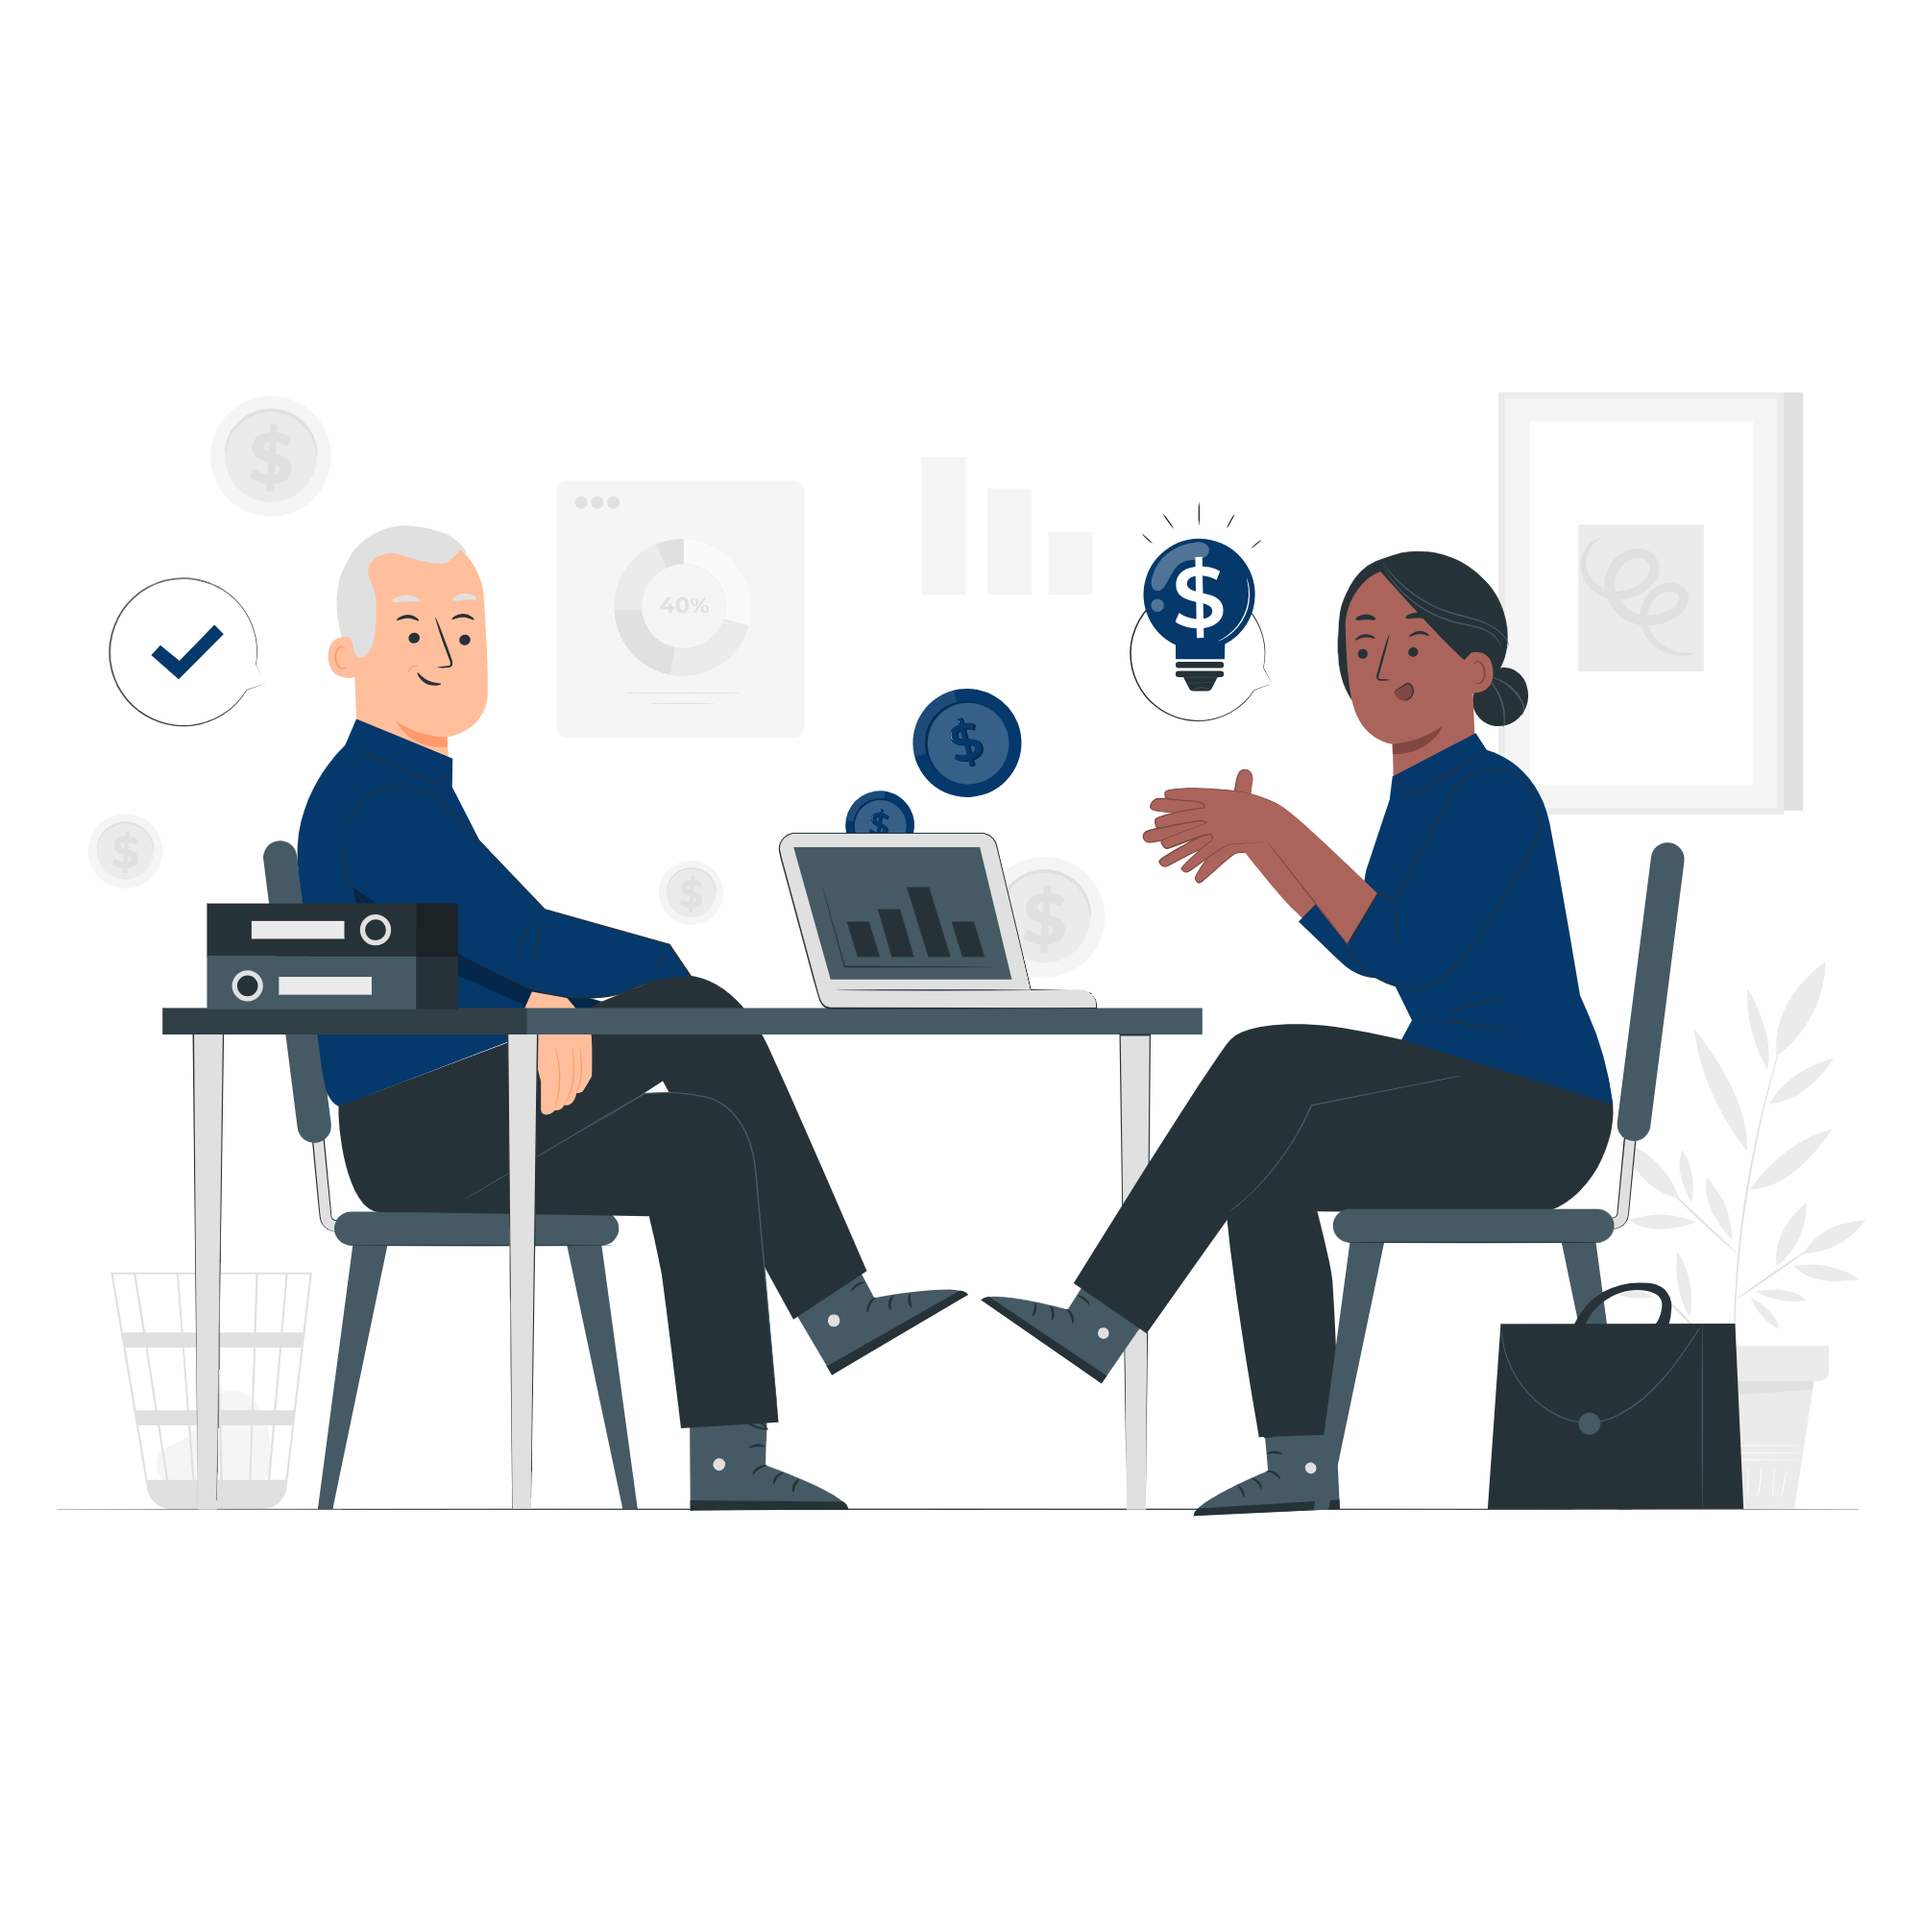
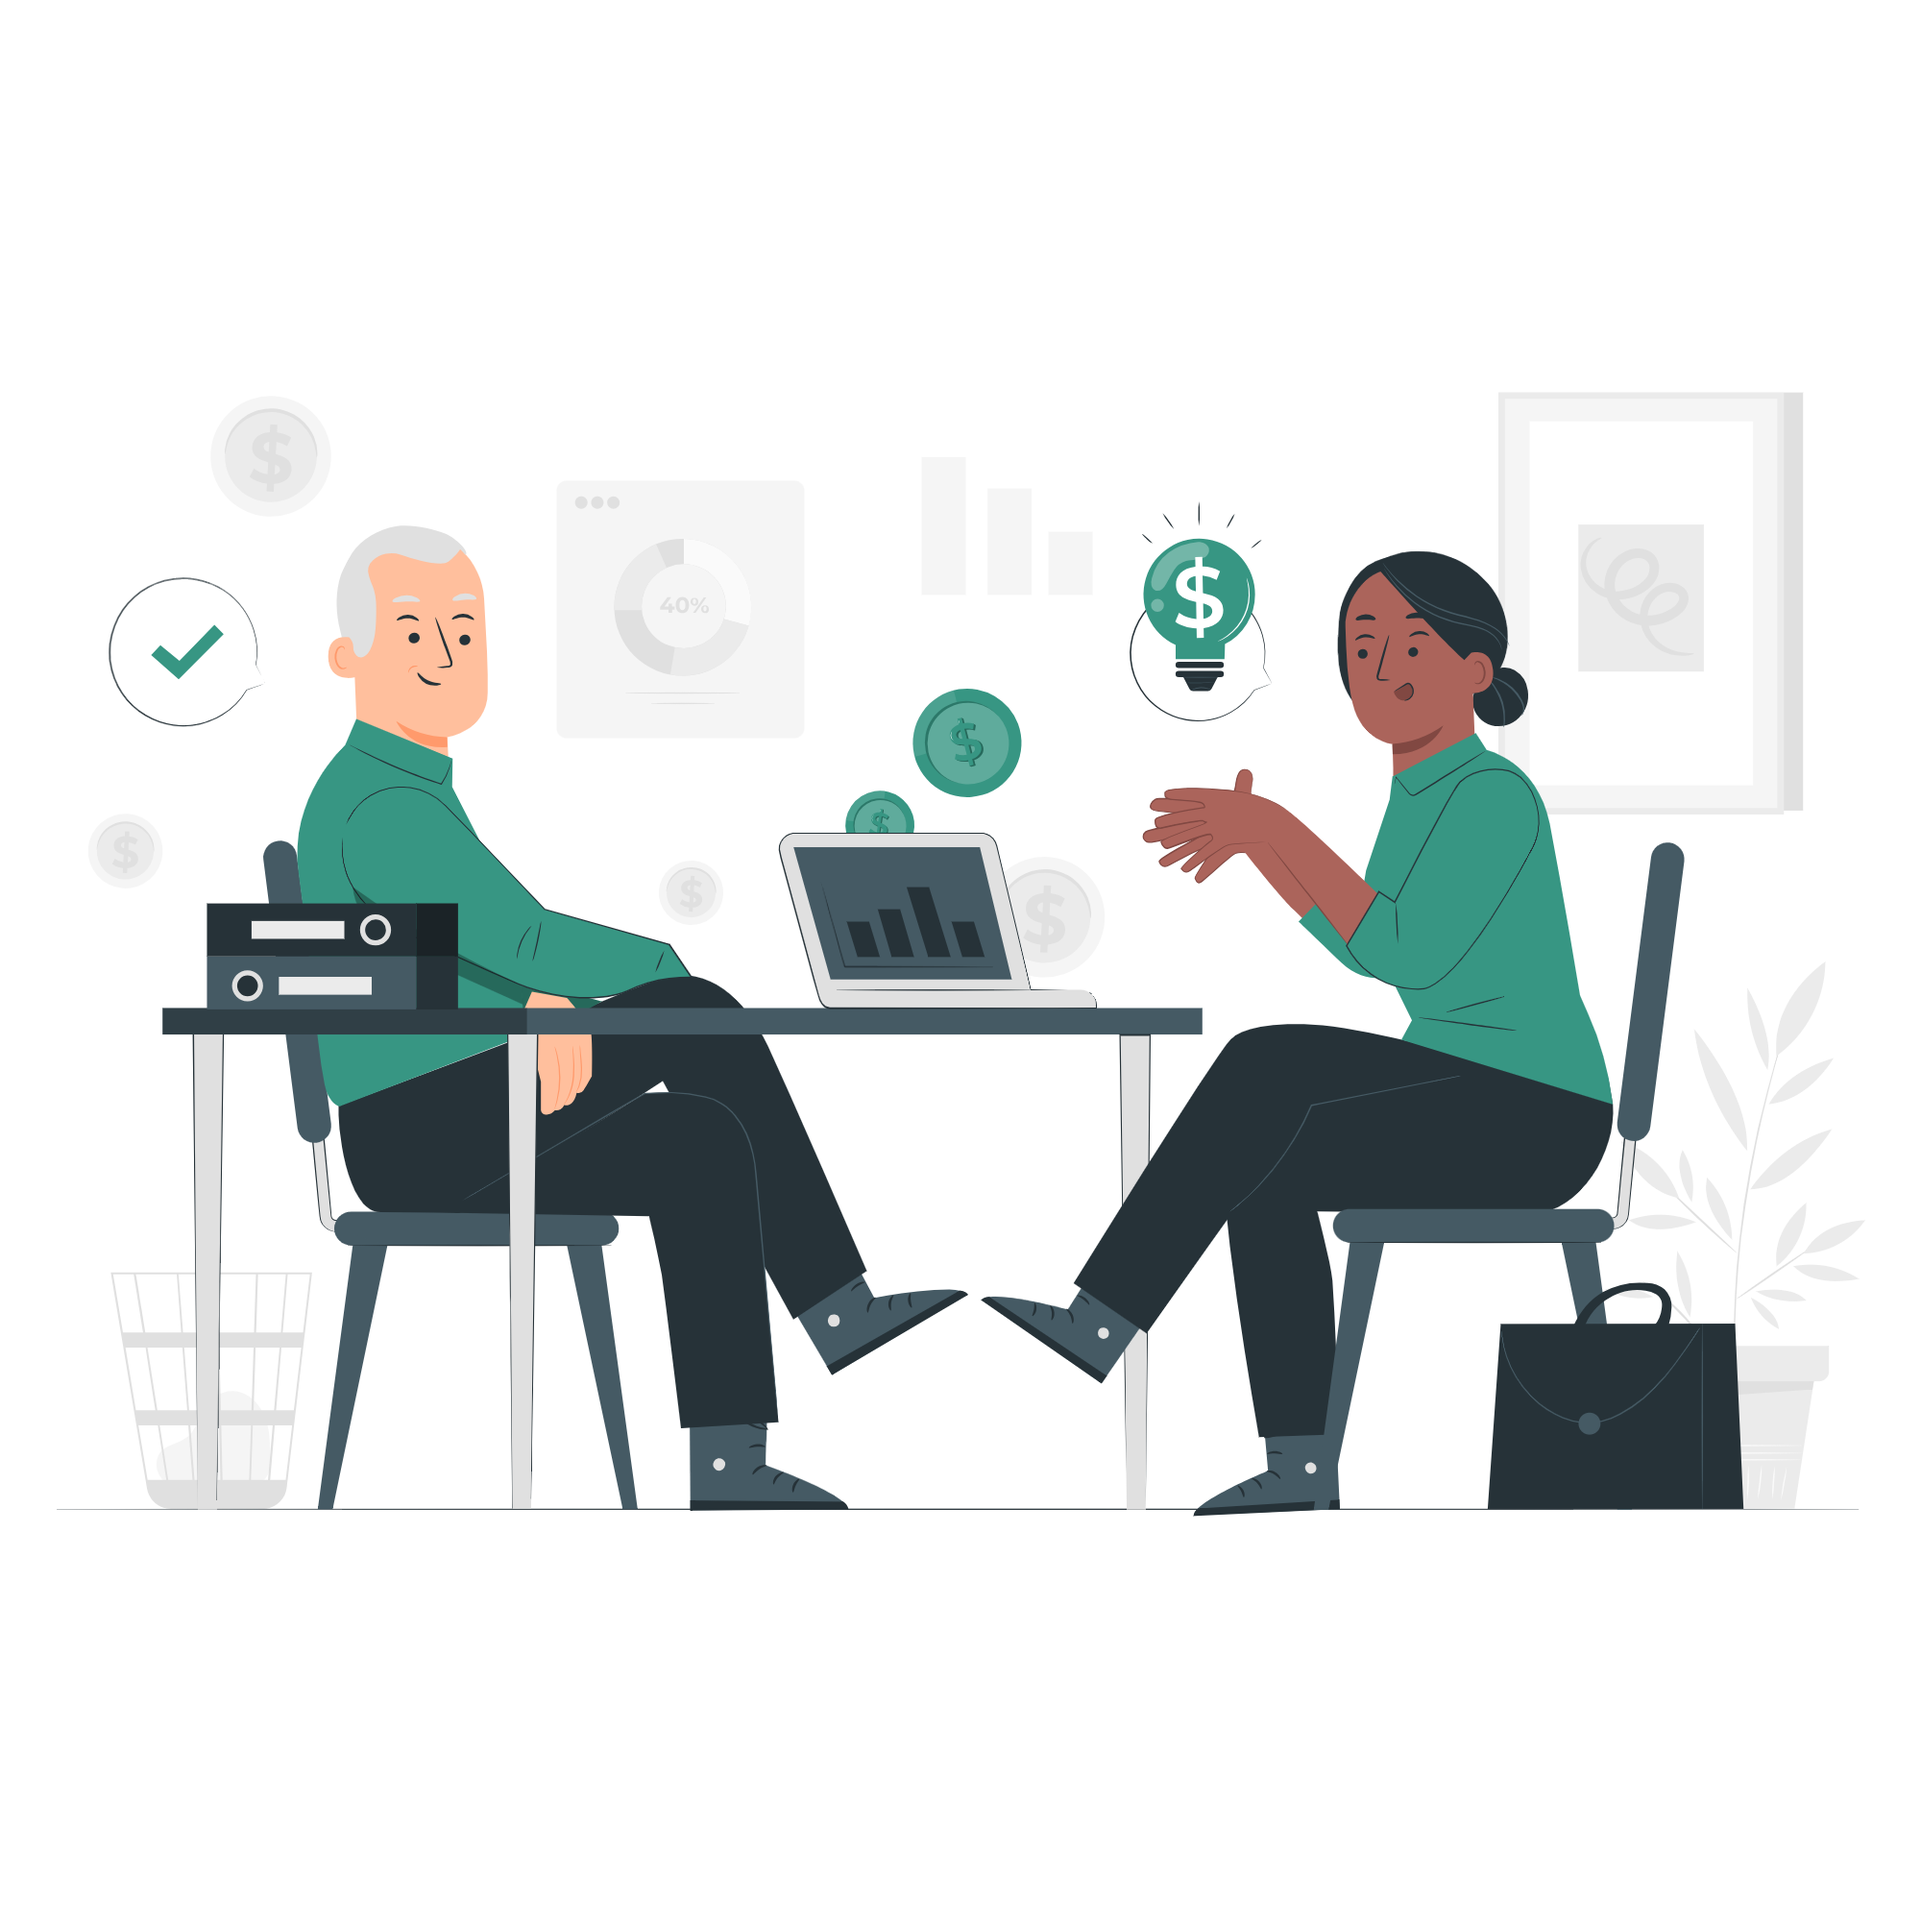
added sign-in image

diff --git a/src/Components/Signin.jsx b/src/Components/Signin.jsx
@@ -1,3 +1,5 @@
+import LoginImg from "../assets/Images/login-page.png";
+
 function SignIn() {
   return (
     <>
@@ -8,6 +10,7 @@ function SignIn() {
             <span className="text-green-1 text-5xl">Budget Buddy</span>
           </h1>
           <p className="">Sign in to continue to your account.</p>
+          <img src={LoginImg} alt="two people having a conversation" />
         </section>
         <div className="flex flex-col col-span-2 place-self-center py-4 ">
           <div className="flex flex-col gap-4 px-2">
